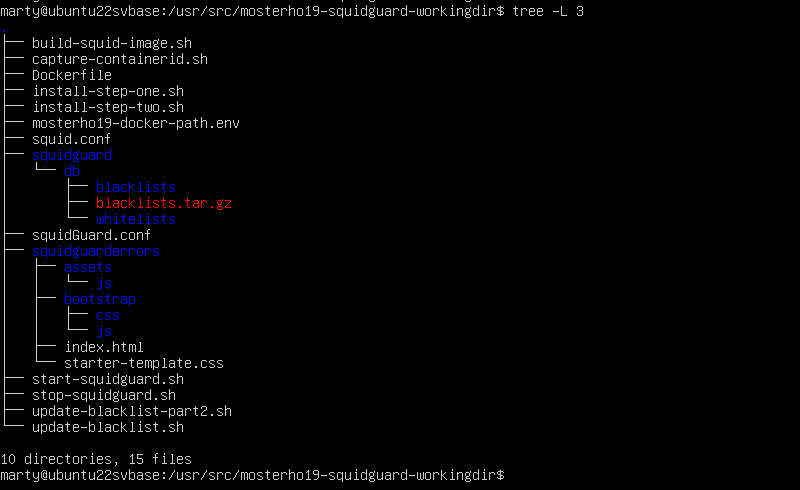
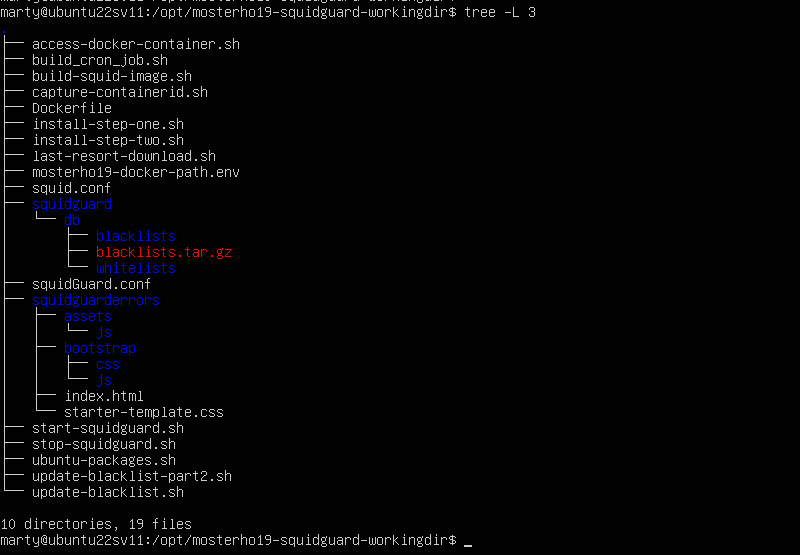
Updated to use Docker Compose

Changed region(s): [[0.0, 0.0612, 0.625, 1.0], [0.0, 0.0, 0.6875, 0.0306], [0.0312, 0.7041, 0.0625, 0.7347]]

diff --git a/README.md b/README.md
@@ -2,7 +2,7 @@
 ### I am very new to Docker, so this is very much a work in process. I have also learned a lot about bash scripting, so hopefully this will be relatively easy to install.
 ### If you've been following this repository, I think I'll finally have a stable version as of 26 October 2026. From now on I'll follow the convention regarding stable versus release, etc.
 
-> "The first 90 percent of the code accounts for the first 90 percent of the development time. The remaining 10 percent of the code accounts for the other 90 percent of the development time."
+> "The first 90 percent of the code accounts for the first 90 percent of the development time. The remaining 10 percent of the code accounts for the other 90 percent of the development time." — Tom Cargill
 
 ### Note that my Docker profile is "mosterho19" and github is "mosterho". My Docker repository can be [found here (Docker)](https://hub.docker.com/repository/docker/mosterho19/squidguard/general). Source code in github can be [found here (github)](https://github.com/mosterho/mosterho19-squidguard/tree/main).
 
@@ -12,6 +12,7 @@
 <li>UPDATE: 2 Nov 2026 I also removed all references to using a home folder to run the server scripts, but I do reference it when doing certain downloads.
 <li>UPDATE: 3 Nov 2026 just realized /usr/src may not the best place to put scripts. I changed all references from /usr/src to /opt.
 <li>UPDATE: 3 Nov 2026 I've made a couple additions and changes to bash files. No changes to the Docker image itself. I also make occasional changes to this document for errata.
+<li>UPDATE: 10 Nov 2026 Determined how to automatically restart the containers after system reboot using docker compose and yaml file. Changes made to the "start" and "stop" bash files have been updated to use docker compose.
 <li>
 
 ~~git is installed on the server, but I'm not familiar enough with git's command lines to pull the repository onto the server.~~ 
@@ -41,13 +42,13 @@
 	<li>Accept defaults during install, except check the box to install ssh-server.</li>
 	</ul>
 </li>
-<li>You can copy and paste the following code into a terminal session, or copy and paste from the "ubuntu-packages.sh" file:</li>
+<li>Copy and paste the following code into a terminal session.</li>
 <ul><li>You will have to hit "Enter" key on screens for "daemons using outdated libraries" and updating your timezone.</li>
 
 `
 sudo apt update && 
 sudo apt full-upgrade -y && 
-sudo apt install docker docker.io docker-buildx unzip net-tools tree -y && 
+sudo apt install docker docker.io docker-buildx docker-compose-v2 unzip net-tools tree -y && 
 sudo dpkg-reconfigure tzdata && 
 sudo ifconfig && 
 echo 'End of updates to system... If you received a message that you should reboot the system, you should do that now'
@@ -64,20 +65,21 @@ echo 'End of updates to system... If you received a message that you should rebo
 <ol>
 <li>You should be in your home/(user) directory on the Ubuntu server. Run the following (include sudo!)
 
-`sudo git clone https://github.com/mosterho/mosterho19-squidguard`
+`
+sudo git clone https://github.com/mosterho/mosterho19-squidguard &&
+sudo cp -r mosterho19-squidguard/mosterho19-squidguard-workingdir/ /opt/ &&
+cd /opt/mosterho19-squidguard-workingdir
+`
 
 <li>This will create the mosterho19-squidguard folder with user "root" as the owner. This contains the entire repository, including this READEME and .jpg files. The squid and squidguard folder structures and bash files are within folder "mosterho19-squidguard-workingdir". This does not include the squidguard db binary files that contain the blacklists.tar.gz; these will be built later.
 
-<li>Change the present working directory to "mosterho19-squidguard" and run "tree -L 3", the results should look similar to this (as I tweak documentation, the number of files may change):</li>
+<li>Run the following:
+
+`tree -L 3` 
+
+The results should look similar to this (as I tweak documentation, the number of files may change):</li>
 
 ![Pic of server home folder structure](Documentation/Docker_tree_home.jpg)
-
-### Copy Required Files and Folders
-<li>Move or copy the required application folders and files to /opt
-
-`sudo cp -r mosterho19-squidguard-workingdir/ /opt/`
-
-`cd /opt/mosterho19-squidguard-workingdir`
 
 </ol>
 
@@ -86,9 +88,10 @@ echo 'End of updates to system... If you received a message that you should rebo
 <li>You <mark>may</mark> need to make changes to squid.conf, squidGuard.conf and start-squidguard.sh, and <mark>should</mark> change the email address in the update-blacklist.sh.
 <li>The names and purposes of some of the important objects in the mosterho19-squidguard-workingdir directory are:
 	<ul> 
-	<li>file "squid.conf" -- there are over 9000 lines in the original squid.conf file; this file contains about 100 lines. All of the uncommented lines with some of the important comments were included. This contains the minimum required to get squidguard up and running. You may need to tweak this file to get your container up and running (e.g., even though it is commented out, I assume you don't need the dns_nameservers tag at the very end; I just happen to use an Intranet). 
+	<li>file "squid.conf" -- there are over 9000 lines in the original squid.conf file; this file contains about 100 lines. All of the uncommented lines with some of the important comments were included. This contains the minimum required to get squidguard up and running. You may need to tweak this file to get your container up and running 
+	<li>(e.g., even though it is commented out, I assume you don't need the dns_nameservers tag at the very end; I just happen to use an Intranet). 
 	<li>file "squidGuard.conf" -- Currently setup to include all localnet IP addresses, a blacklist, and whitelist. The blacklists currently include ads, adult, and malware. You may need to change the IP address of the redirect statement to match the IP of the Ubuntu server; however using Docker's IP 172.17.0.1 works for me. 
-	<li>file "start-squidguard.sh" -- The script uses the system's time zone, but you can change the timezone environment flag (-e) for your needs.
+	<li>file "start-squidguard.sh" -- The script uses the system's time zone, but you can change the timezone in the .yml file for your needs.
 	<li>file "update-blacklist.sh" -- consider changing the email address used as the password in the "wget" command. This FTP site allows the user to be "anonymous", so please follow netiquette and use a legitimate email address as the password.
 	<li>directory "squidguard" -- The blacklist and whitelist files will be setup in this directory. 
 	<li>directory "squidguarderrors" -- This is used by the httpd image. This contains a couple folders and an index.html file. The html file is used for issuing a warning message when attempting to display a blacklisted site.
@@ -155,6 +158,7 @@ Confirm you are in the running container by checking your login.
 
 ![Successfully running squidguard](Documentation/Docker_squidguard_running_ok.jpg)
 
+<li>Run any other Linux commands you wish (e.g., top, etc.)
 </ol>
 
 ## Open a browser and try it ;-) 
@@ -174,6 +178,7 @@ Confirm you are in the running container by checking your login.
 
 `sudo bash update-blacklist.sh`
 </ul>
+<li>Please see the "Additional Helpful Scripts" and "build_cron_job.txt" to setup a nightly CRON job.
 <li>If you wish to udpate the whitelist, perform the following:
 <ul>
 <li>Set your directory to /opt/mosterho19-squidguard-workingdir
@@ -191,15 +196,27 @@ Confirm you are in the running container by checking your login.
 ## Additional Helpful Scripts
 <ol>
 <li>access-docker-container.sh -- This will start a terminal session to the currently running squidguard container. 
-<li>build_cron_job.sh -- Create a CRON job that will run the "update-blacklist.sh" script. Before running this, you will have to change the "CRON_LINE="*/5 * * * * " line to run the job at a time of your choosing.
+<li>build_cron_job.txt -- Steps to manually create a CRON job that will run the "update-blacklist.sh" script. 
+<ul>
+<li>View the "build_cron_job.txt"
+<li>If CRON is to run as root, CRON requires the "executable" flag set on chmod. Set the present working directory to /opt/mosterho19-squidguard-workingdir. 
+<li>Run the following:
+
+`sudo chmod 755 /opt/mosterho19-squidguard-workingdir/*.sh && 
+sudo touch /var/log/update-blacklist.log`
+<li>Run the following:
+
+`sudo crontab -e`
+<li>You may be prompted to change your input method to CRON; select option '1'. Copy and paste the two bottom lines into the crontab file. If there are existing entries, place the timezone line at the top of the file, and the new CRON entry at the bottom. Change the CRON entry to start at the time of your choosing.
+</ul>
 <li>build-squid-image.sh -- Manually modify the Dockerfile for your requirements, then run this script. The image will be updated to the Docker.IO section.
 <li>capture-containerid.sh -- Used by a couple programs to retrieve the squidguard containerid.
 </ol>
 
 ## Issues
 <ol>
-<li>While doing test installations, I've made a handful of mistakes, such as forget to copy the "mosterho19-squidguard-workingdir" directory to /opt. It seems to work if you work with that directory as needed when running scripts, running "chown", etc. Or you can find all objects unzipped from the "mosterho19-squidguard-main.zip", delete them and start the install over.
-<li>IMPORTANT: The scripts to download the blacklists from the [Blacklist FTP Download site](ftp://ftp.ut-capitole.fr/pub/reseau/cache/squidguard_contrib/blacklists.tar.gz) aren't totally reliable. I'm not sure if it's the nature of using wget to download tar files from ftp.ut-capitole.fr, or if the website itself has uptime issues. 
+<li>While doing test installations, I've made a handful of mistakes, such as forget to copy the "mosterho19-squidguard-workingdir" directory to /opt. It seems to work if you work with that directory as needed when running scripts, running "chown", etc., otherwise delete the folders and start the install over.
+<li>IMPORTANT: The scripts to download the blacklists from the [Blacklist FTP Download site](ftp://ftp.ut-capitole.fr/pub/reseau/cache/squidguard_contrib/blacklists.tar.gz) aren't totally reliable. I'm not sure if it's the nature of using wget to download tar files from ftp.ut-capitole.fr, or if the website itself has uptime issues. If running the install-step-two.sh script, you shouldn't have to download the "last resort" file manually, but the steps are here if needed.
 <ul>
 <li>Open a browser and use the following link to download the blacklists.tar.gz file. 
 
@@ -213,11 +230,11 @@ Confirm you are in the running container by checking your login.
 ([Blacklist Download Last Resort here](https://blacklistdownload.blob.core.windows.net/blacklist-copy-dsi-ut-capitole/blacklists.tar.gz))
 <li>Once the blacklists.tar.gz file is downloaded using a web browser, copy it to "/opt/mosterho19-squidguard-workingdir/squidguard/db". Depending on rights assigned to the folders on the server, you may have to download the file to your /home/user folder first, then copy to "/opt/mosterho19-squidguard-workingdir/squidguard/db". Don't forget to replace "user" with your username.
 
-On a Windows pc:
+If you downloaded the file from a Windows pc:
 
 `scp C:\Users\user\Downloads\blacklists.tar.gz user@192.168.##.##:/opt/mosterho19-squidguard-workingdir/squidguard/db`
 
-If the folder rights on the destination server don't allow that (permission denied)
+If the folder rights on the destination server don't allow the scp command to run (permission denied), then
 On a pc open a command prompt or powershell session:
 
 `scp C:\Users\user\Downloads\blacklists.tar.gz user@192.168.##.##:/home/user`
@@ -240,16 +257,7 @@ then on the server:
 # Next Steps for this Project
 <ol>
 <li>Create a CRON job for nightly updates to the blacklists (both on Ubuntu and within the Docker repository).
-<ul>
-	<li>CRON job setup for Ubuntu only 31 Oct 2026. May need to change the timezone before running "crontab -e" to add the entries. Run the following:
-
-`sudo chmod 755 /opt/mosterho19-squidguard-workingdir/*.sh`
-<li>Run the following:
-
-`sudo crontab -e`
-<li>View the "build_cron_job.txt". Copy and paste the two bottom lines into the crontab file. If there are existing entries, place the timezone line at the top of the file, and the new CRON entry at the bottom.
-
-</ul>
+<ul><li>Please see "Additional Helpful Scripts" and "build_cron_job.txt" for install instructions.</ul>
 <li>Autostart the containers if the Ubuntu server reboots.
 <li>Learn how to create a .deb file to install on Ubuntu.
 <li>Install this on Microsoft Azure as-is (Ubuntu server, Docker, etc.).
